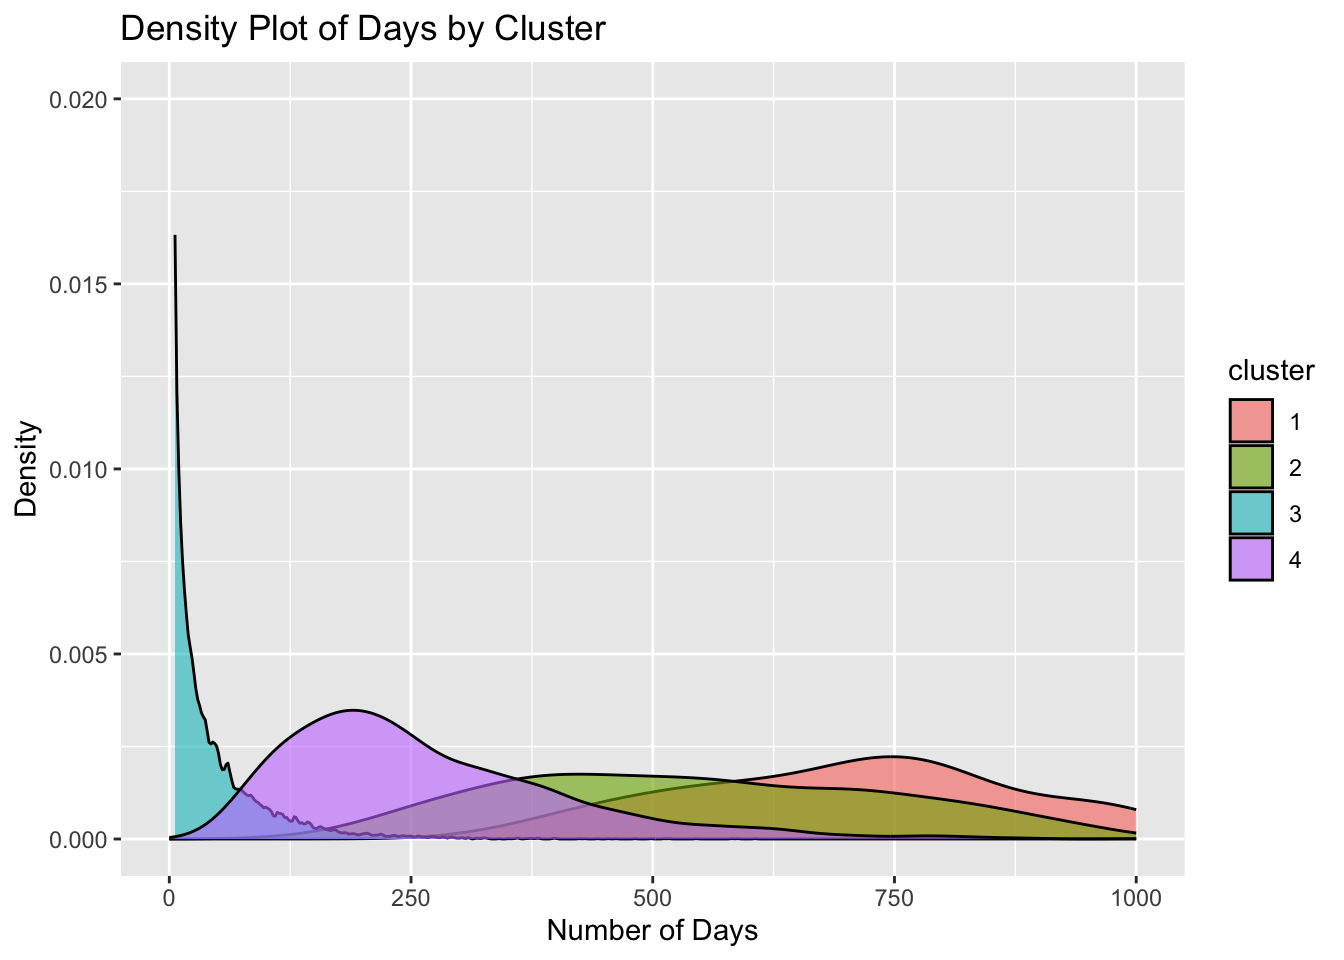
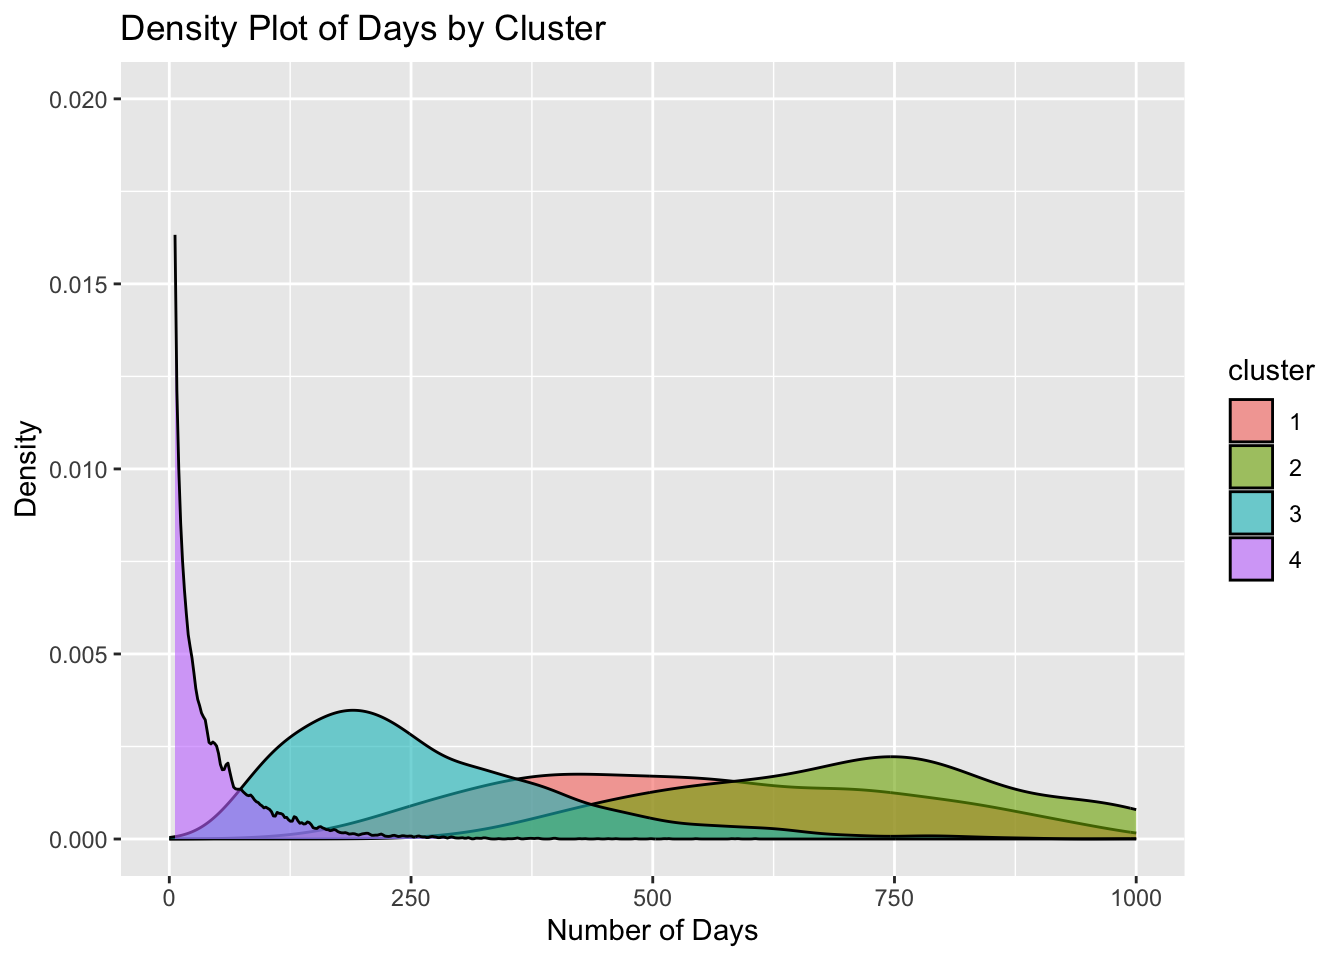
added PUBG picture

Changed region(s): [[0.125, 0.5312, 0.8438, 0.875]]

diff --git a/code/FinalBlog.html b/code/FinalBlog.html
@@ -104,6 +104,7 @@ pre > code.sourceCode > span > a:first-child::before { text-decoration: underlin
 
 <section id="the-game" class="level2">
 <h2 class="anchored" data-anchor-id="the-game">The Game</h2>
+<p><img src="Screen%20Shot%202024-12-14%20at%2012.31.27.png" class="img-fluid"></p>
 <p><strong>PUBG (PlayerUnknown’s Battlegrounds)</strong> is a popular battle royale game where players compete to be the last one standing on a shrinking map by scavenging for weapons, equipment, and vehicles. Around the world, approximately 30 million people play PUBG daily, both for leisure and in competitive settings. Through a data-driven analysis of PUBG player statistics obtained via the PUBG API, this blog aims to provide actionable insights on how to become an elite PUBG player. Enhancing player performance not only enriches the gaming experience but also fosters increased engagement, as players are more likely to continue playing when they excel. This guide is valuable not only for players but also for game developers, as it offers insights to improve gaming experiences and boost retention and engagement metrics for PUBG and similar battle royale games.</p>
 </section>
 <section id="the-data" class="level2">
@@ -163,10 +164,10 @@ pre > code.sourceCode > span > a:first-child::before { text-decoration: underlin
 <span id="cb2-15"><a href="#cb2-15" aria-hidden="true" tabindex="-1"></a><span class="do">## # A tibble: 4 × 6</span></span>
 <span id="cb2-16"><a href="#cb2-16" aria-hidden="true" tabindex="-1"></a><span class="do">##   cluster avg_kills avg_assists avg_damageDealt avg_timeSurvived avg_wins</span></span>
 <span id="cb2-17"><a href="#cb2-17" aria-hidden="true" tabindex="-1"></a><span class="do">##   &lt;fct&gt;       &lt;dbl&gt;       &lt;dbl&gt;           &lt;dbl&gt;            &lt;dbl&gt;    &lt;dbl&gt;</span></span>
-<span id="cb2-18"><a href="#cb2-18" aria-hidden="true" tabindex="-1"></a><span class="do">## 1 1          23655.      7292.         3195736.         9737638.  1034.  </span></span>
-<span id="cb2-19"><a href="#cb2-19" aria-hidden="true" tabindex="-1"></a><span class="do">## 2 2           8786.      2499.         1204401.         4388938.   395.  </span></span>
-<span id="cb2-20"><a href="#cb2-20" aria-hidden="true" tabindex="-1"></a><span class="do">## 3 3            119.        27.1          16131.           70101.     4.08</span></span>
-<span id="cb2-21"><a href="#cb2-21" aria-hidden="true" tabindex="-1"></a><span class="do">## 4 4           2907.       826.          405750.         1630512.   128.</span></span></code><button title="Copy to Clipboard" class="code-copy-button"><i class="bi"></i></button></pre></div>
+<span id="cb2-18"><a href="#cb2-18" aria-hidden="true" tabindex="-1"></a><span class="do">## 1 1           8786.      2499.         1204401.         4388938.   395.  </span></span>
+<span id="cb2-19"><a href="#cb2-19" aria-hidden="true" tabindex="-1"></a><span class="do">## 2 2          23655.      7292.         3195736.         9737638.  1034.  </span></span>
+<span id="cb2-20"><a href="#cb2-20" aria-hidden="true" tabindex="-1"></a><span class="do">## 3 3           2907.       826.          405750.         1630512.   128.  </span></span>
+<span id="cb2-21"><a href="#cb2-21" aria-hidden="true" tabindex="-1"></a><span class="do">## 4 4            119.        27.1          16131.           70101.     4.08</span></span></code><button title="Copy to Clipboard" class="code-copy-button"><i class="bi"></i></button></pre></div>
 </details>
 </div>
 <ul>
